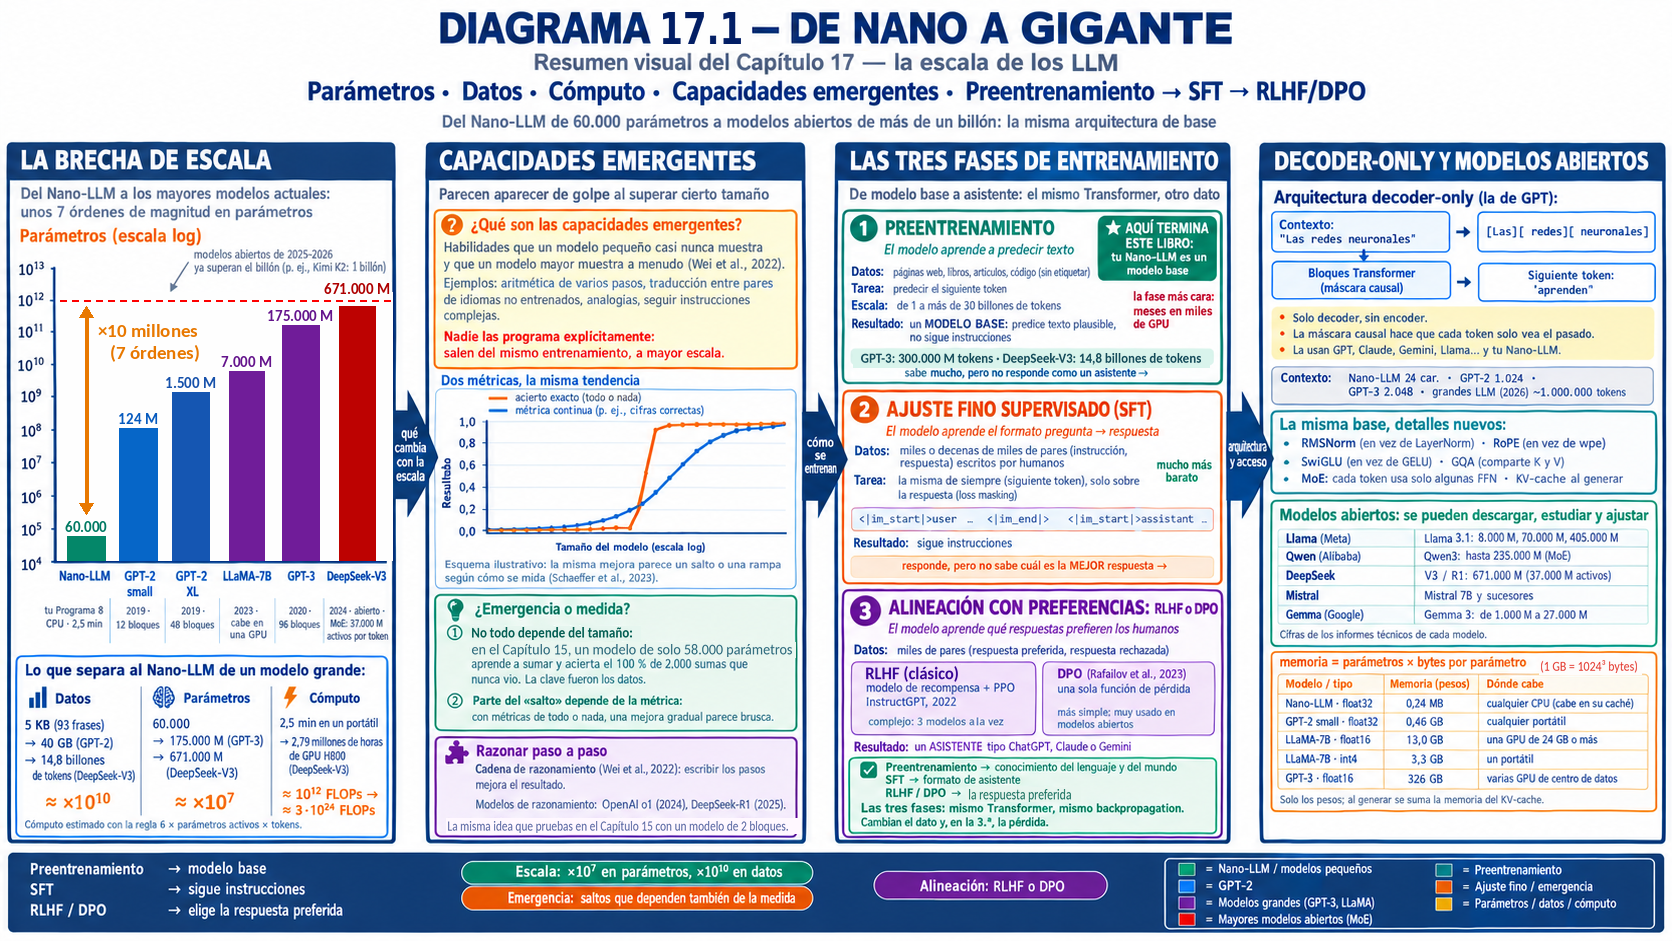
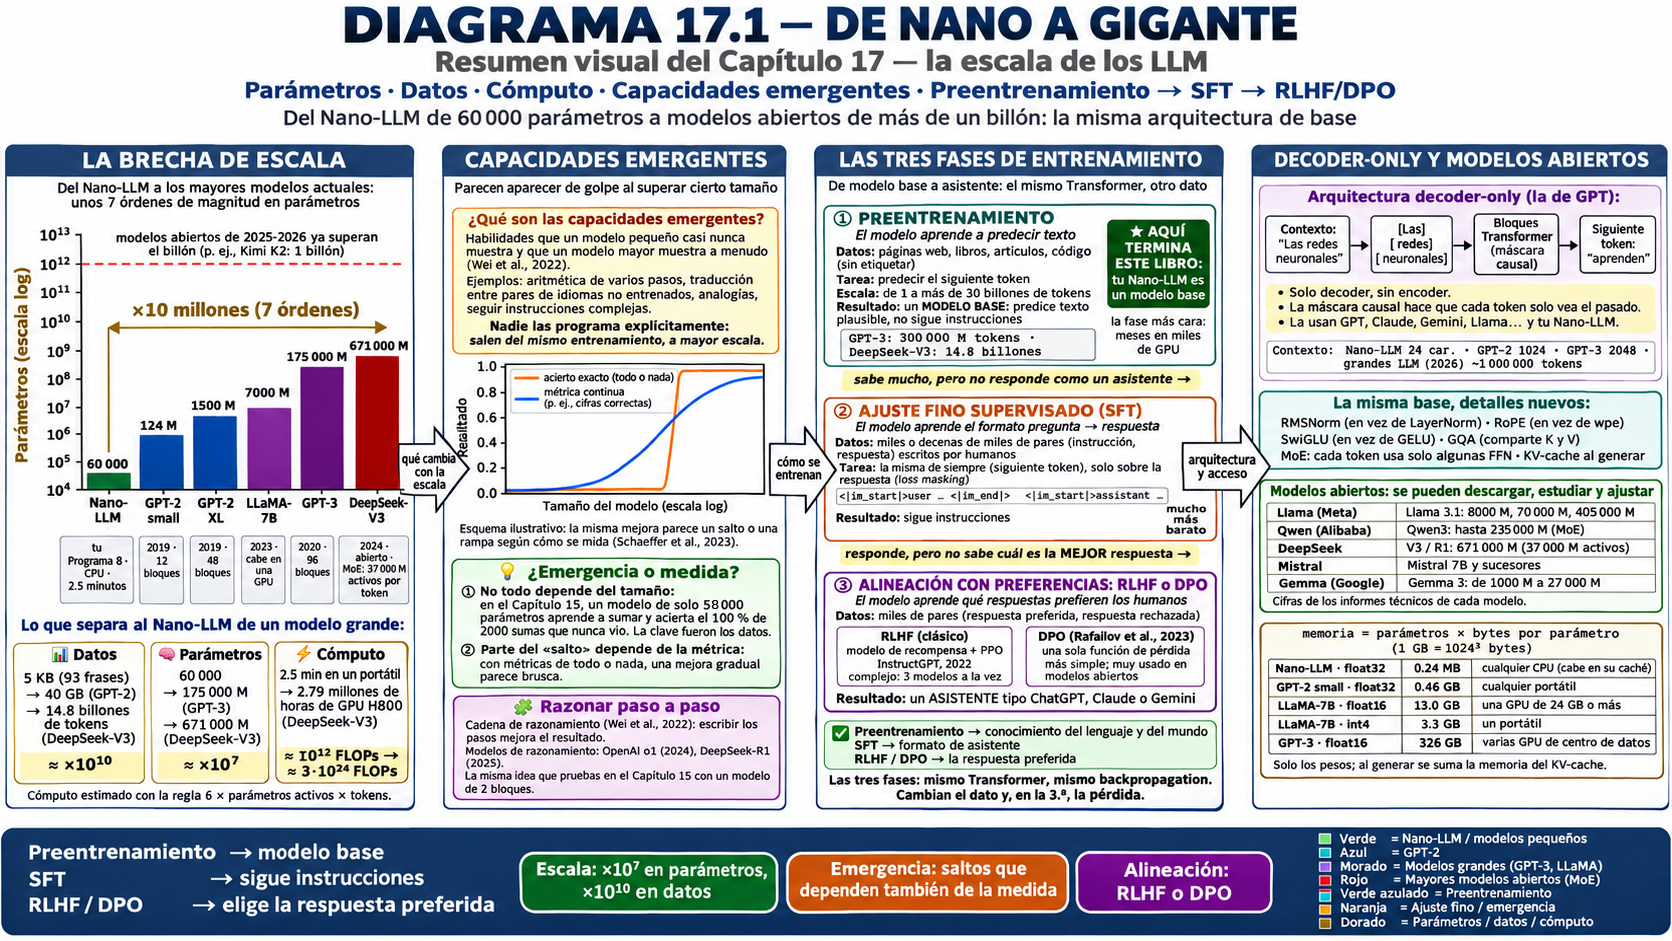
Diagramas 13.1 y 17.1: nuevas ilustraciones del autor (más contraste) con tres erratas corregidas
Claude-Session: https://claude.ai/code/session_01JgEXA5SMfwVsRQFWykXSto

diff --git a/diagramas/scripts/fix_d13_1_d17_1.py b/diagramas/scripts/fix_d13_1_d17_1.py
@@ -1,0 +1,52 @@
+# SPDX-License-Identifier: MIT  (© 2026 Carlos Soria Martínez; ver LICENSE)
+"""Diagramas 13.1 y 17.1 regenerados por el autor (4-11-2026) con los prompts nuevos: tres erratas de la
+ilustración, corregidas sobre la imagen (originales en diagramas/originales/*_autor_2026-11-04.png).
+
+13.1  · Fórmula de la pérdida: «P(y₁ | x₁ … x₁)» → «P(yₜ | x₁ … xₜ)» (los subíndices t, como en 13.3).
+      · Leyenda: «Trantformer» y «Geneneción», y los nombres de los colores en inglés → leyenda en español,
+        como la del Diagrama 17.1.
+17.1  · «un modelo de solo 57 000 parámetros» → «58 000», como en el texto de 17.x (el Programa RZ-2 tiene
+        57 696; el prompt decía 57 000 por error)."""
+from PIL import Image, ImageDraw, ImageFont
+
+D = 'originales/'
+INTER_SB = '/usr/share/fonts/opentype/inter/Inter-SemiBold.otf'
+MONO_B = '/usr/share/fonts/truetype/dejavu/DejaVuSansMono-Bold.ttf'
+SANS = '/usr/share/fonts/truetype/dejavu/DejaVuSans.ttf'
+
+
+def texto_en(draw, x, y_centro, s, fuente, color):
+    b = draw.textbbox((0, 0), s, font=fuente)
+    draw.text((x - b[0], y_centro - (b[1] + b[3]) / 2), s, font=fuente, fill=color)
+
+
+# ---------------------------------------------------------------- 13.1
+im = Image.open(D + 'd13_1_autor_2026-11-04.png').convert('RGB')
+dr = ImageDraw.Draw(im)
+fondo_formula, tinta = (252, 238, 237), (38, 31, 30)
+sub = ImageFont.truetype(MONO_B, 9)
+for x0, x1 in ((685, 692), (766, 773)):            # subíndice de y y del último x
+    dr.rectangle((x0, 477, x1, 485), fill=fondo_formula)
+    b = dr.textbbox((0, 0), 't', font=sub)
+    dr.text(((x0 + x1) / 2 - (b[0] + b[2]) / 2, 484 - b[3]), 't', font=sub, fill=tinta)
+navy, blanco = (18, 47, 89), (255, 255, 255)
+dr.rectangle((1276, 849, 1600, 930), fill=navy)
+f = ImageFont.truetype(INTER_SB, 12)
+for yc, s in zip((858, 871, 884, 897, 910, 923),
+                 ('Azul = Entrada / tokenizador / embeddings', 'Verde azulado = Bloques Transformer',
+                  'Verde = Salida / texto generado', 'Naranja = Pérdida / entrenamiento',
+                  'Morado = Generación / muestreo', 'Dorado = Parámetros / formas')):
+    texto_en(dr, 1280, yc, s, f, blanco)
+im.save('Diagrama_13.1.png', optimize=True)
+
+# ---------------------------------------------------------------- 17.1
+im = Image.open(D + 'd17_1_autor_2026-11-04.png').convert('RGB')
+dr = ImageDraw.Draw(im)
+fondo, tinta = (242, 251, 241), (20, 22, 20)
+dr.rectangle((711, 599, 719, 611), fill=fondo)      # el «7» de «57 000»
+f = ImageFont.truetype(SANS, 13)
+b = dr.textbbox((0, 0), '8', font=f)
+dr.text((715 - (b[0] + b[2]) / 2, 609.5 - b[3]), '8', font=f, fill=tinta, stroke_width=0)
+dr.text((715.4 - (b[0] + b[2]) / 2, 609.5 - b[3]), '8', font=f, fill=tinta)   # un poco más de peso, como sus vecinas
+im.save('Diagrama_17.1.png', optimize=True)
+print('ok')
